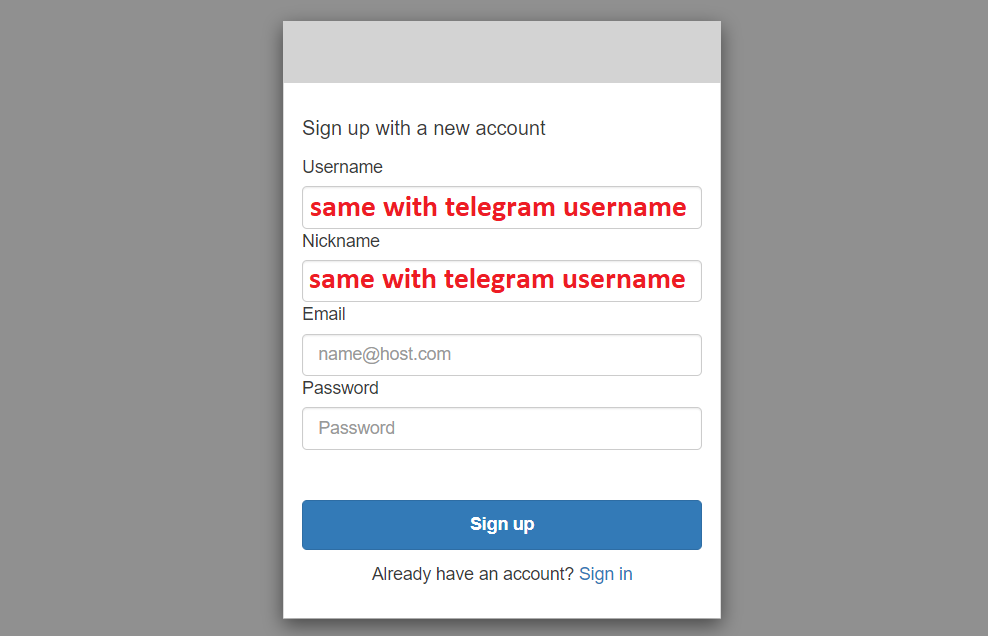
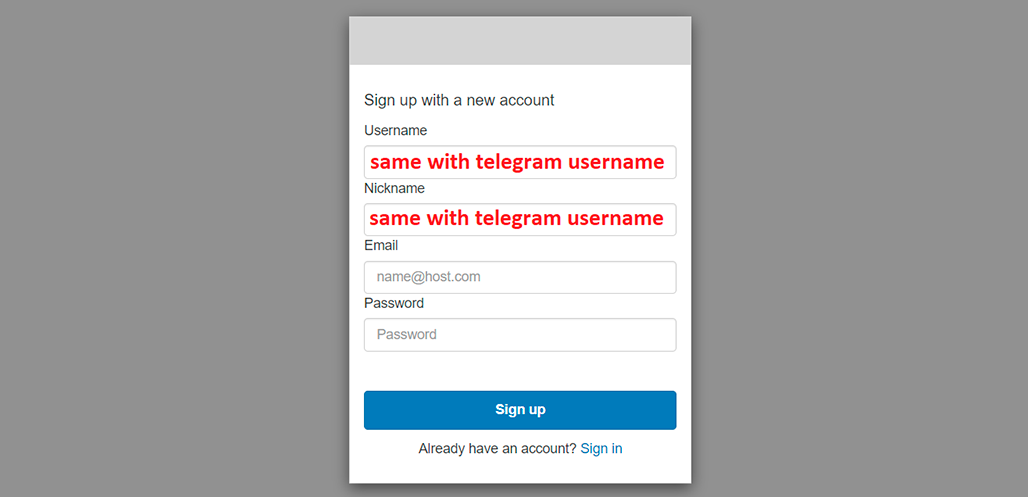
Deployed 036c43d with MkDocs version: 1.0.4

Changed region(s): [[0.2733, 0.0302, 0.7591, 0.996]]

diff --git a/reg/index.html b/reg/index.html
@@ -629,7 +629,7 @@
 <p>2. Your username and nickname should be the same with your telegram account (without @). Fill your email and create a password with at least 8 characters. It is recommended to use special characters and numbers to make it stronger. </p>
 <p><img src="/images/qreg/2.png" alt="drawing" /></p>
 <p>3. Confirm your email with a verification code you receive to your email.</p>
-<p><img src="/images/qreg/3.png" alt="drawing" /> </p>
+<p><img src="/images/qreg/3.jpg" alt="drawing" /> </p>
 <p>4. To login back you need to use email address, which was used for registration, and password.</p>
 <p><img src="/images/qreg/4.png" alt="drawing" /> </p>
 <p>5. The platform and the third-party services we are using are mobile friendly and work well for most desktop browsers. However, to prevent possible issues, we recommend playing the Quest from a desktop, using the latest version of Google Chrome. </p>
